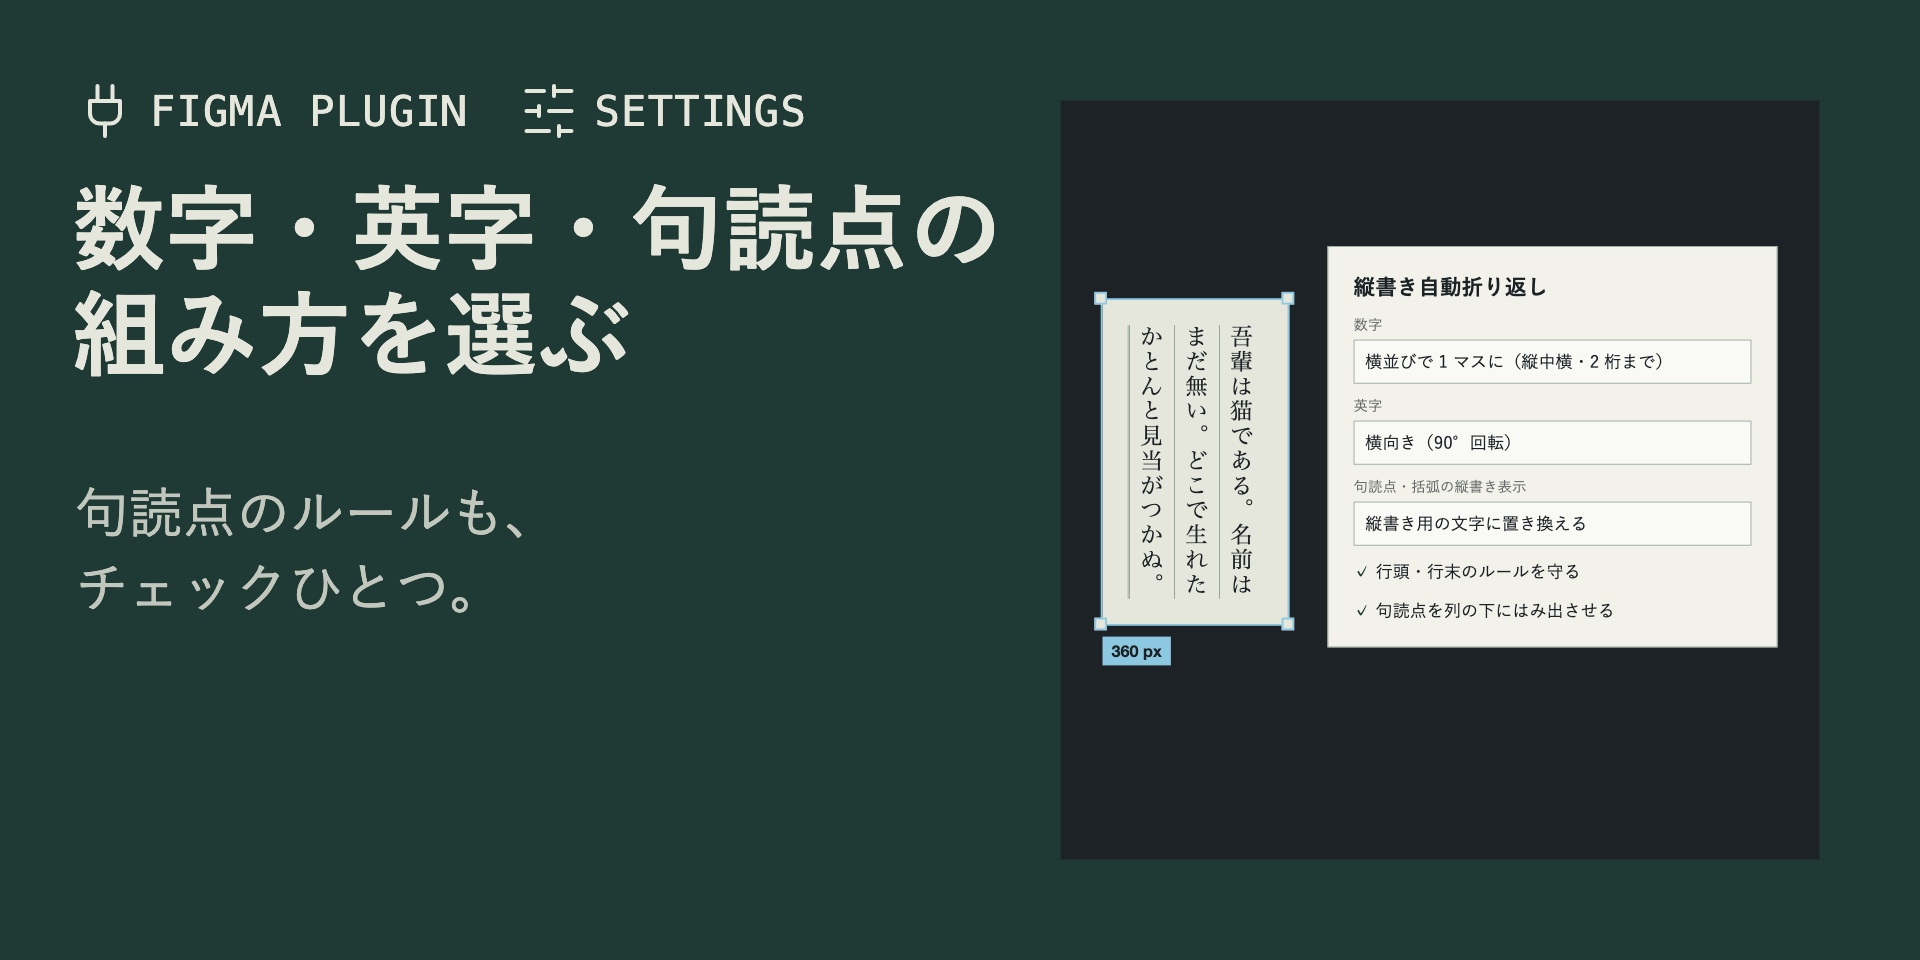
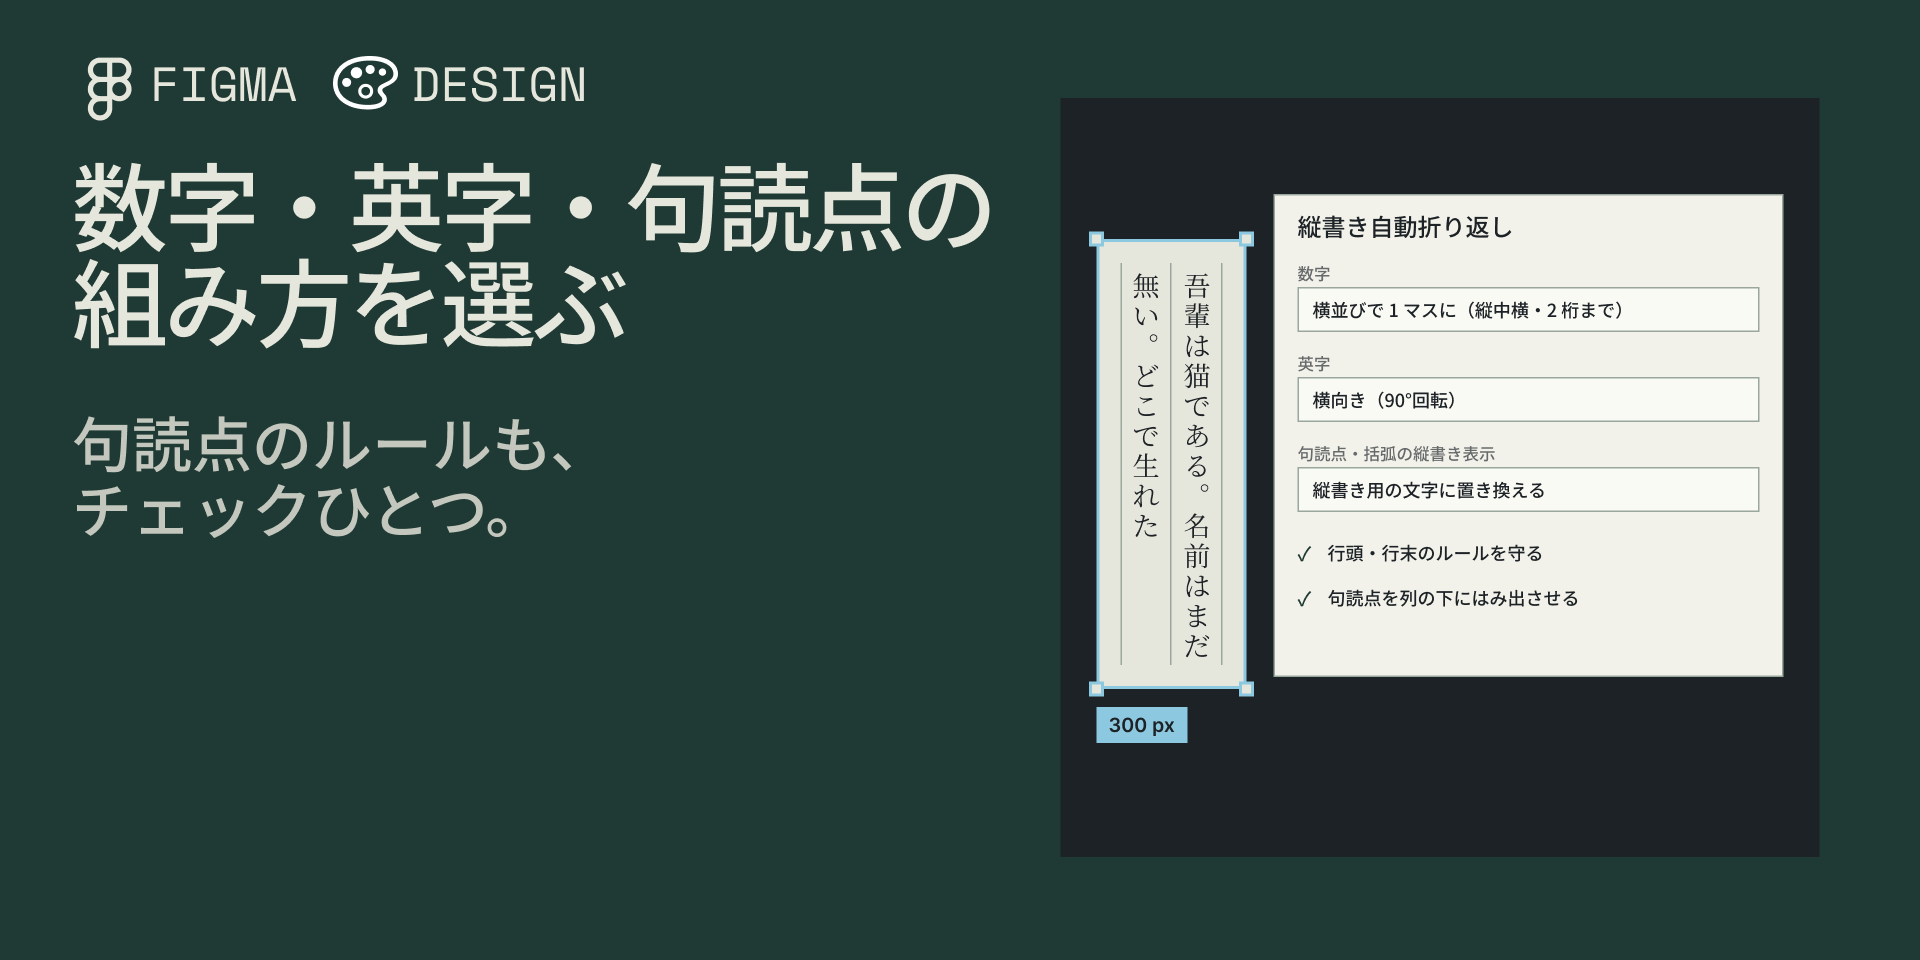
Rebuild cover, carousel and note covers in Figma with the Thumbnail v3 components and fonts (Noto Sans JP Medium, Space Mono)

diff --git a/assets/README.md b/assets/README.md
@@ -1,19 +1,36 @@
 # assets
 
+画像の元は Figma（ファイル「Plugins」）にある。ここにある PNG は、そこから書き出したもの。<br>
+The source of these images is in Figma (file "Plugins"). The PNGs here are exports from it.
+
 | フォルダ / Folder | 中身 / Contents |
 |---|---|
 | `publish/` | Figma Community にアップロードするファイル（英語版）: `icon-128.png`（128×128）、`cover.png`（1920×960）、`carousel1〜3.png`（1920×960）。デモ動画 `.mp4` もここに置く（git には入れない）。<br>Files to upload to Figma Community (English): icon, cover, carousel 1-3. The demo video goes here too (not tracked by git). |
 | `publish-ja/` | カルーセルの日本語版。<br>Japanese versions of the carousel. |
-| `note/` | note・Substack 用のカバー（1280×670、英語と日本語）。過去のサムネの型（左: タグ・見出し・サブタイトル、右: 正方形の台座）。<br>Cover for note / Substack (1280x670, English and Japanese), after the past thumbnail layout. |
-| `source/` | 画像の元になる HTML と CSS。ブラウザで開き、1920×960（アイコンは 128×128）で撮ると作り直せる。<br>The HTML and CSS the images are made from. Open in a browser and capture at 1920×960 (icon: 128×128). |
+| `note/` | note・Substack 用のカバー（1280×670、英語と日本語）。<br>Cover for note / Substack (1280x670, English and Japanese). |
+| `source/` | アイコンの 5 倍書き出し（`icon-640.png`）。<br>A 5x export of the icon. |
 
-## アイコンについて / About the icon
-`publish/icon-128.png` は Figma で作っている（ファイル Plugins、ノード `43:53`、案 B：ベタ・横長・「三」の 3 種類のブロック）。`source/icon-640.png` はその 5 倍の書き出し。<br>
-The icon is drawn in Figma (file "Plugins", node `43:53`, idea B: three block kinds). `source/icon-640.png` is a 5x export of it.
+## Figma の元 / Figma sources
+過去のサムネの部品（`Thumbnail v3/…`）を使って作っている。型の元は過去の例（ノード `45:4190`）。<br>
+Built with the Thumbnail v3 components; the layout comes from the past example (node `45:4190`).
 
-## 配色 / Palette (classic direction)
+| 画像 / Image | ノード / Node |
+|---|---|
+| cover EN / JA (1280×670) | `59:166` / `59:288` |
+| carousel 1〜3, EN (1280×670) | `60:179`, `60:373`, `60:529` |
+| carousel 1〜3, JA (1280×670) | `60:276`, `60:451`, `60:599` |
+| Community 1920×960 (cover, carousel1 EN/JA, carousel2 EN/JA, carousel3 EN/JA) | `61:299`, `61:329`, `61:385`, `61:441`, `61:478`, `61:515`, `61:544` |
+| icon (idea B) | `43:53` |
+
+URL: `https://www.figma.com/design/26IH26Fh9F58EVqcPdyazI/Plugins?node-id=<node id with - instead of :>`
+
+## 書き出し方 / How to export
+1280×670 のフレームは、そのまま PNG に書き出す。Community 用の 1920×960 は、1280×670 のコピーを 1.5 倍にして、上に 22px ずらした枠（1920×960、はみ出しを切る）から書き出す。<br>
+Export the 1280x670 frames as they are. For the 1920x960 Community images, a copy of the frame is scaled 1.5x and shifted up 22px inside a clipped 1920x960 frame.
+
+## 配色 / Palette
 黒板緑 chalkboard green `#1F3A34` · 紙 paper `#E6E7DC` · 墨 ink `#1D2226` · 罫の水色 rule blue `#8CC8DF`
 
-## レイアウト / Layout
-過去のサムネ（Figma Plugins ファイル、ノード `45:4190`）の型に合わせる: 左に「アイコン付きタグ・太いゴシックの見出し 72px・2 行のサブタイトル 36px」、右に 506×506 の正方形の台座（墨色）と、その中に画像 1 つ。共通の CSS は `source/_note.css`。<br>
-Follows the past thumbnail layout: left = icon tags, bold gothic title (72px) and a two-line subtitle (36px); right = a 506x506 square mat holding one picture. Shared CSS: `source/_note.css`.
+## フォント / Fonts
+見出し・サブタイトル: Noto Sans JP Medium（72px／80px、字間 −4%）。タグ: Space Mono Regular 32px。縦書きの例文: Noto Serif JP。<br>
+Title and subtitle: Noto Sans JP Medium. Tags: Space Mono Regular 32px. Vertical sample text: Noto Serif JP.

diff --git a/PUBLISHING.md b/PUBLISHING.md
@@ -19,15 +19,15 @@
 
 | 用途 | ファイル | サイズ | 状態 |
 |---|---|---|---|
-| プラグインアイコン | `assets/publish/icon-128.png`（元: `assets/source/icon.html`） | 128 × 128 | ✅ |
-| カバーアート | `assets/publish/cover.png`（元: `assets/source/cover.html`） | 1920 × 960 | ✅（黒板緑・紙色・縦罫の古風な方向。CSS で描いた説明図） |
+| プラグインアイコン | `assets/publish/icon-128.png`（元: Figma（Plugins ファイル、ノード `43:53`）） | 128 × 128 | ✅ |
+| カバーアート | `assets/publish/cover.png`（元: Figma（Plugins ファイル、ノード `61:299`）） | 1920 × 960 | ✅（黒板緑・紙色・縦罫の古風な方向。CSS で描いた説明図） |
 | カルーセル 1〜3 | `assets/publish/carousel1〜3.png`（日本語版は `assets/publish-ja/`） | 1920 × 960 | ✅（HTML で描いた説明図） |
 
-作り直す場合は `assets/source/*.html` をブラウザで開き、ビューポートを 1920×960（アイコンは 128×128）にしてスクリーンショットを撮ります。
+作り直す場合は `assets/README.md` の Figma ノードを開き、ビューポートを 1920×960（アイコンは 128×128）にしてスクリーンショットを撮ります。
 
 ## 3. カルーセル（HTML で描いた説明図）
 
-`assets/publish/carousel1〜3.png`（英語）と `assets/publish-ja/carousel1〜3-ja.png`（日本語）を用意済み。元は `assets/source/` の同名の `.html`（共通 CSS は `_carousel.css`）。カバーと同じ配色（黒板緑・紙色・縦罫の古風な方向）で描いている。サンプル文は夏目漱石『吾輩は猫である』（著作権切れ）。
+`assets/publish/carousel1〜3.png`（英語）と `assets/publish-ja/carousel1〜3-ja.png`（日本語）を用意済み。元は Figma（`assets/README.md` にノードの一覧）。カバーと同じ配色（黒板緑・紙色・縦罫の古風な方向）で描いている。サンプル文は夏目漱石『吾輩は猫である』（著作権切れ）。
 
 | # | 内容 |
 |---|---|
